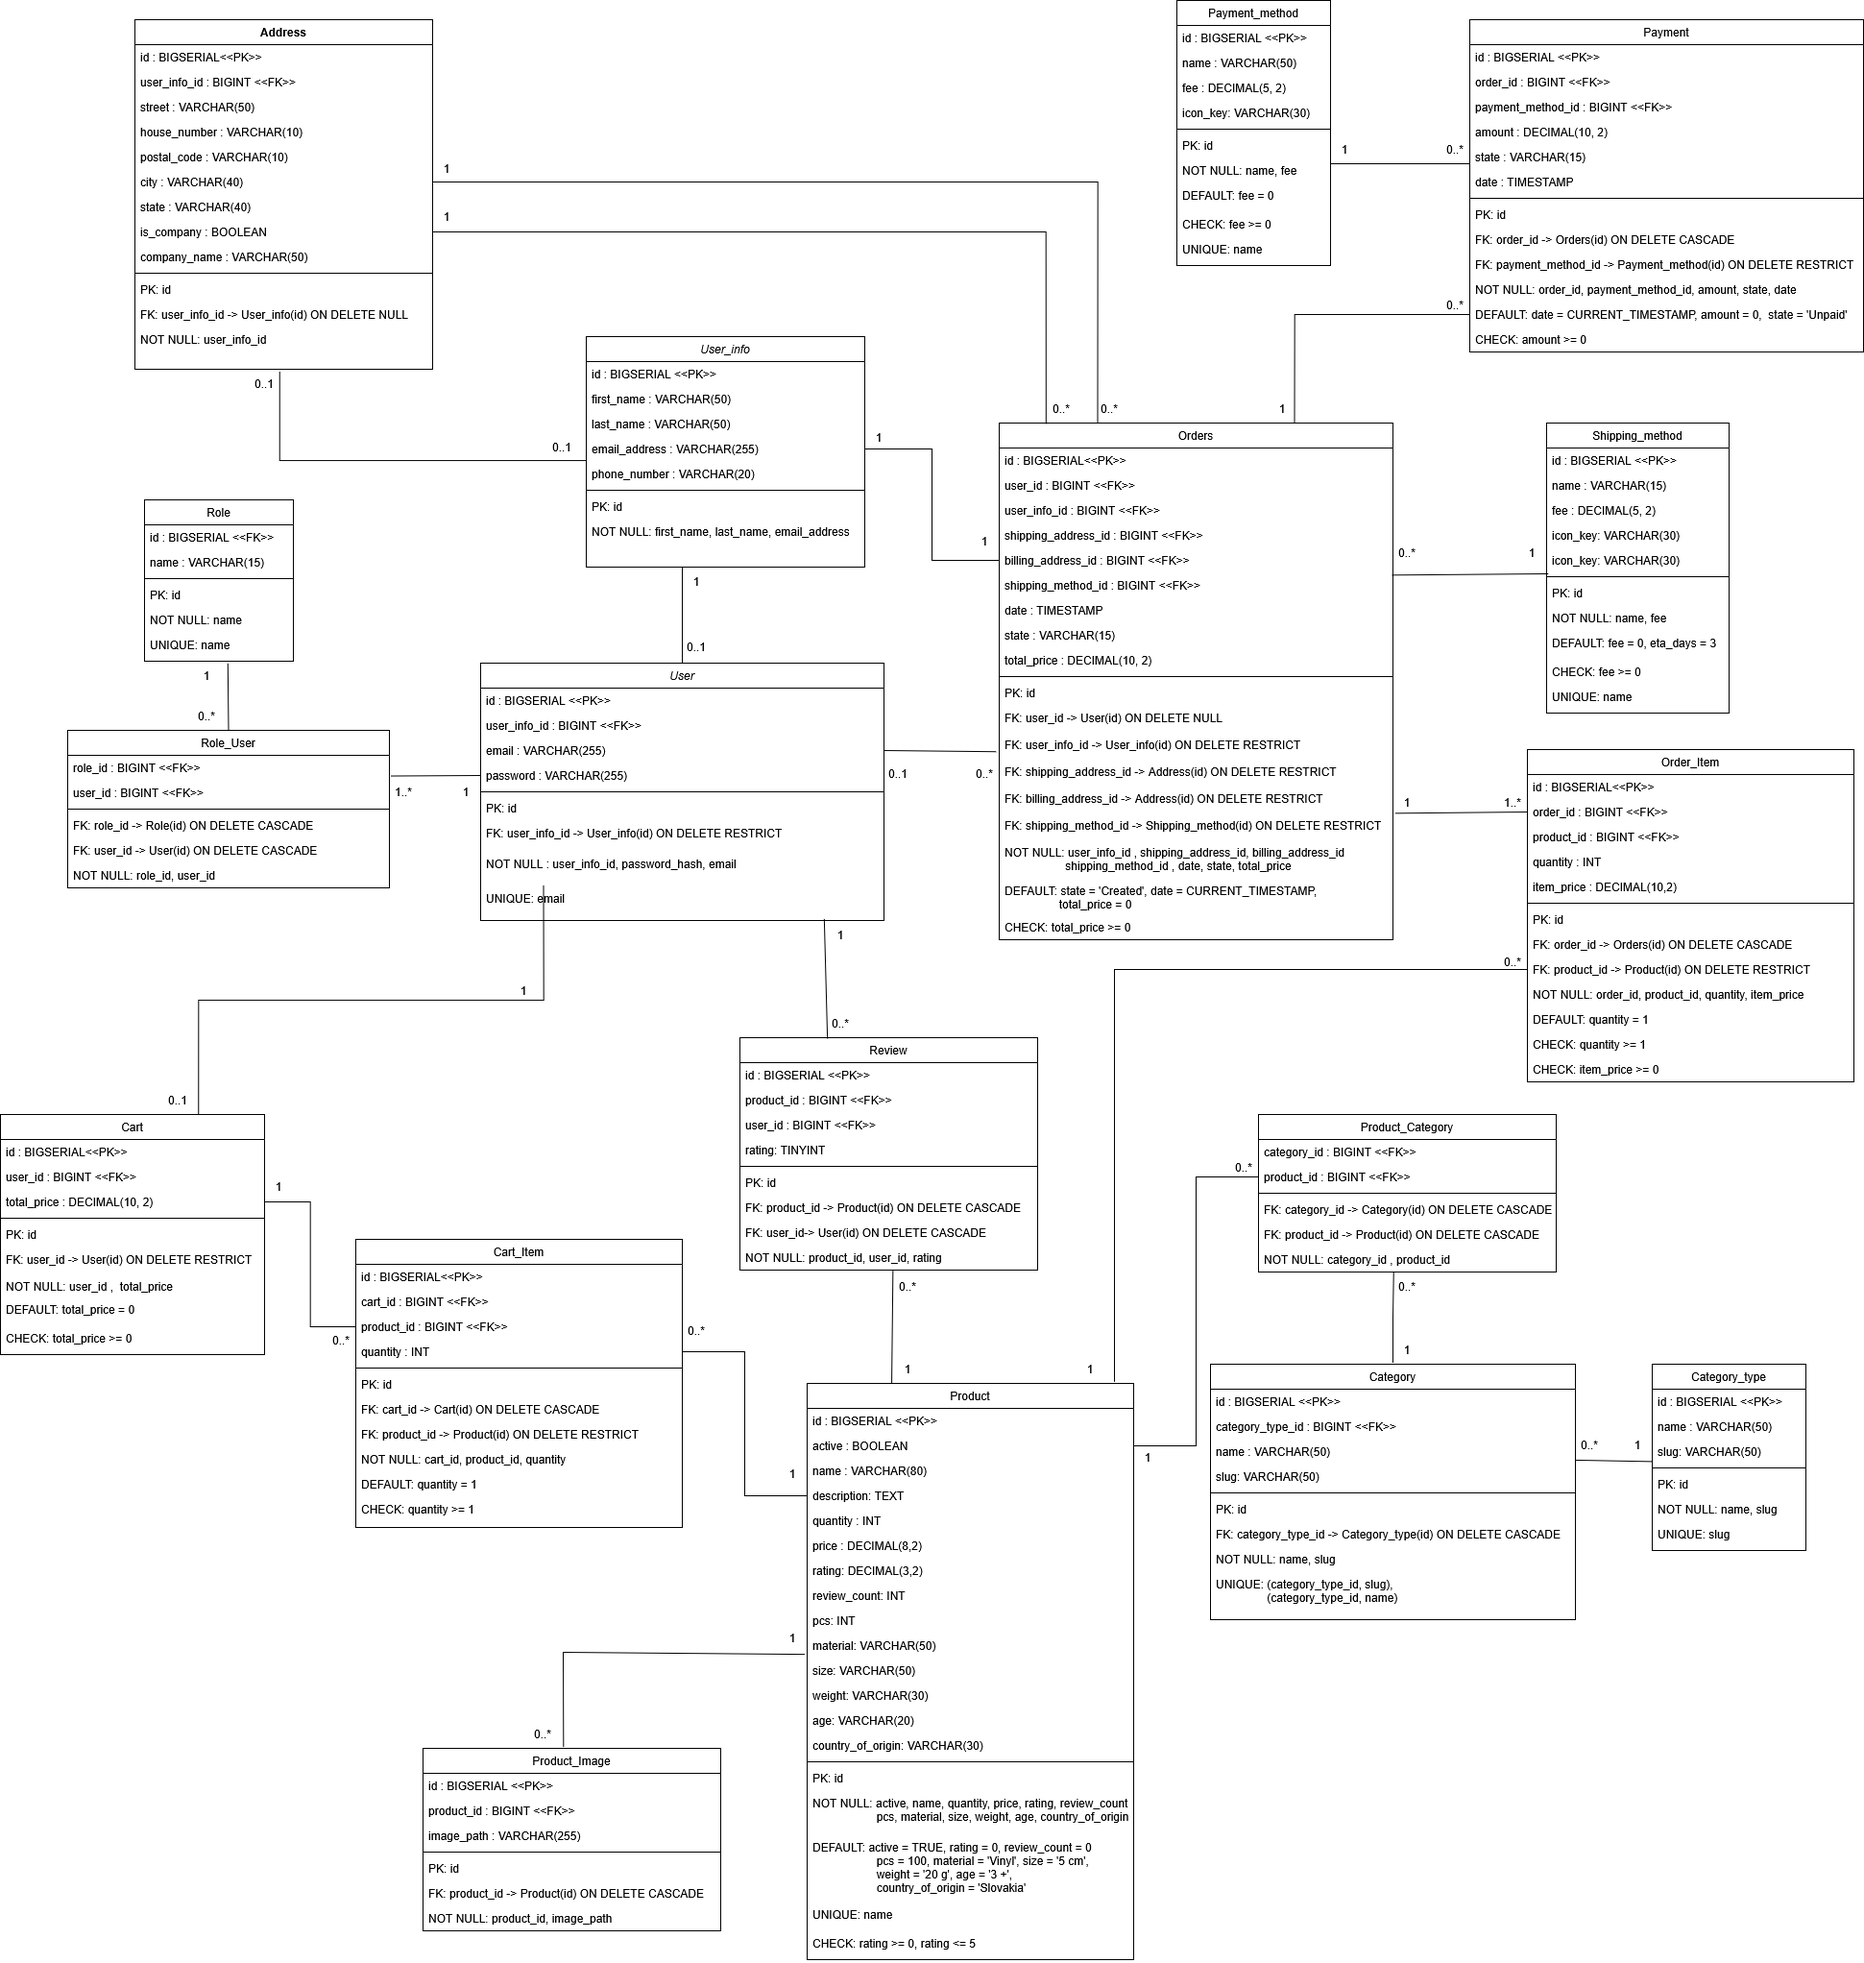
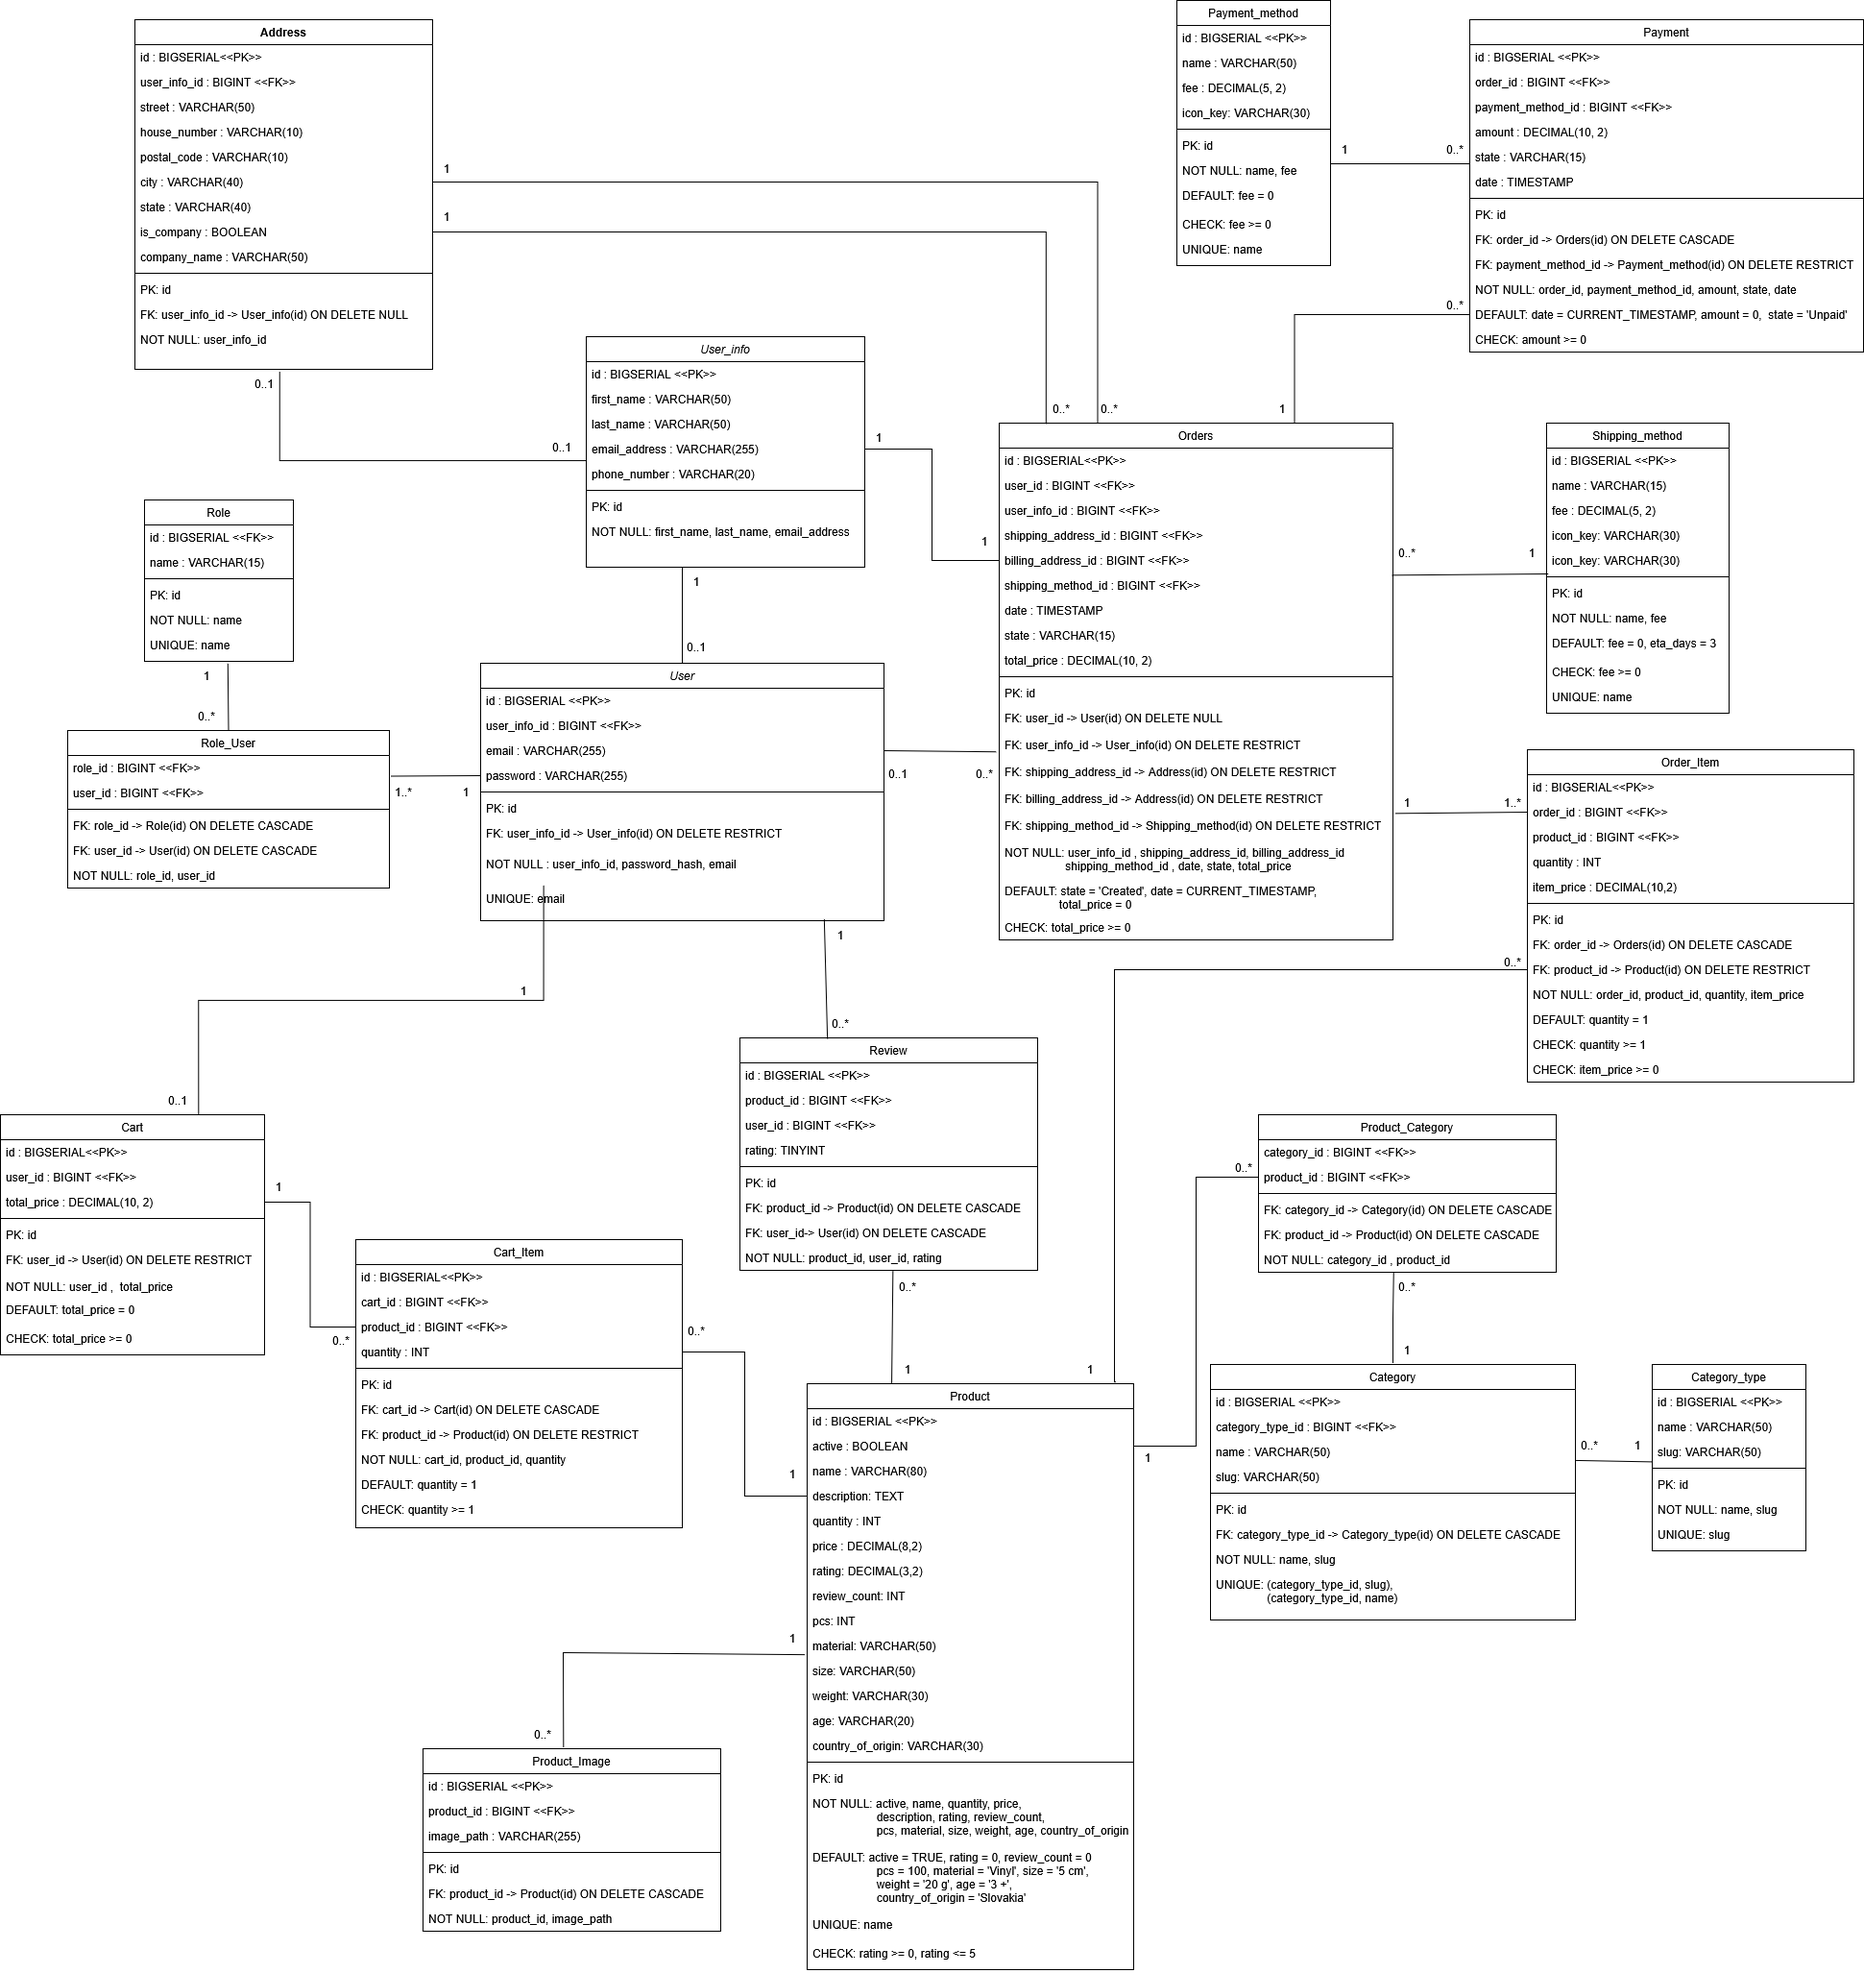
Drobne upravy

diff --git a/eshop/database/migrations/2026_04_01_000001_create_products_table.php b/eshop/database/migrations/2026_04_01_000001_create_products_table.php
@@ -12,7 +12,7 @@ return new class extends Migration
             $table->id();
             $table->boolean('active')->default(true);
             $table->string('name', 80)->unique();
-            $table->text('description')->nullable();
+            $table->text('description');
             $table->integer('quantity');
             $table->decimal('price', 8, 2);
             $table->decimal('rating', 3, 2)->default(0)->check('rating >= 0 AND rating <= 5');

diff --git a/eshop/app/Http/Controllers/Shop/ProductController.php b/eshop/app/Http/Controllers/Shop/ProductController.php
@@ -32,7 +32,7 @@ class ProductController extends Controller {
         $maxPrice = (int) $request->query('max_price', 999999);
         $rating = (int) $request->query('rating', 0);
 
-        if (!in_array($perPage, [10, 25, 50, 100], true)) {
+        if (!in_array($perPage, [10, 25, 50], true)) {
             $perPage = 10;
         }
 
